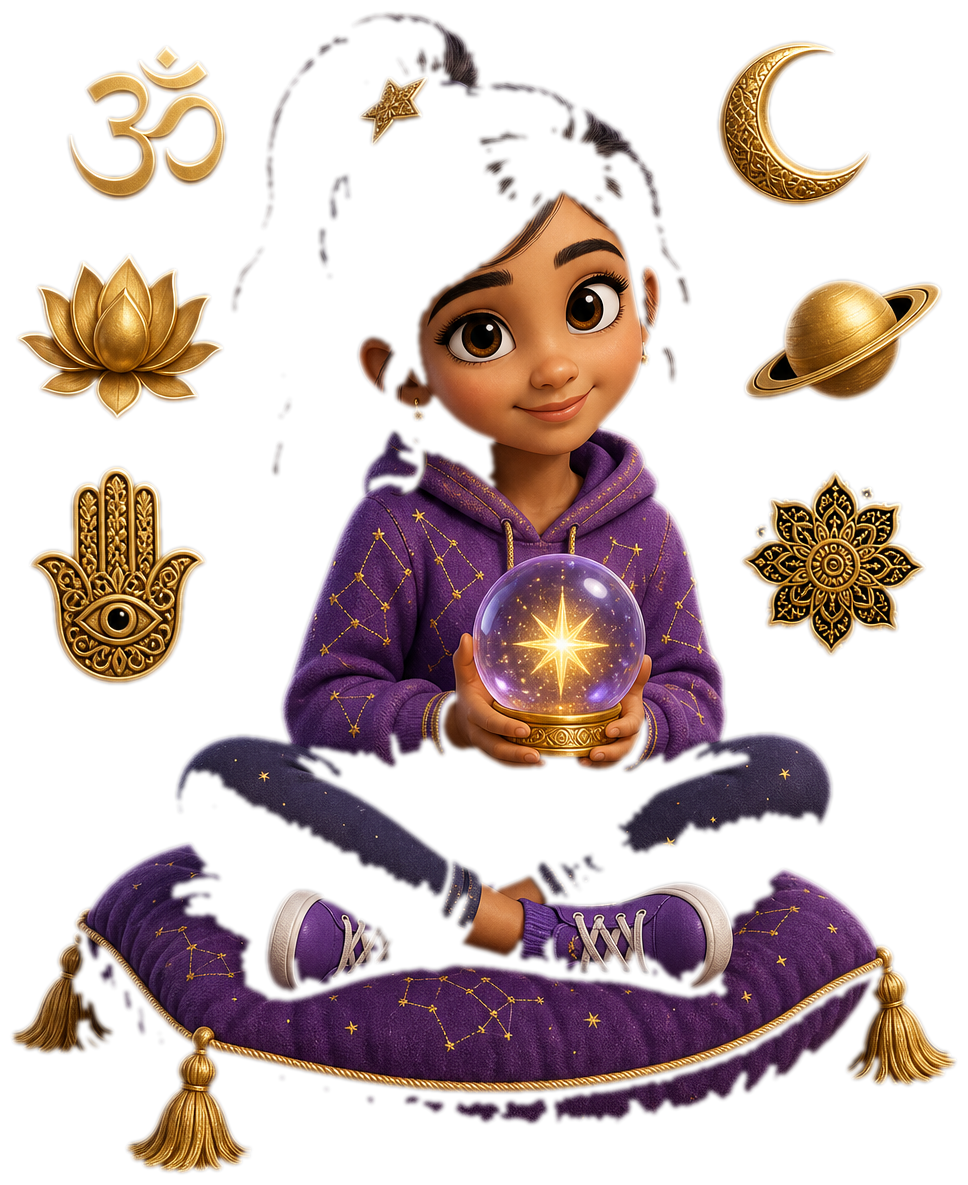
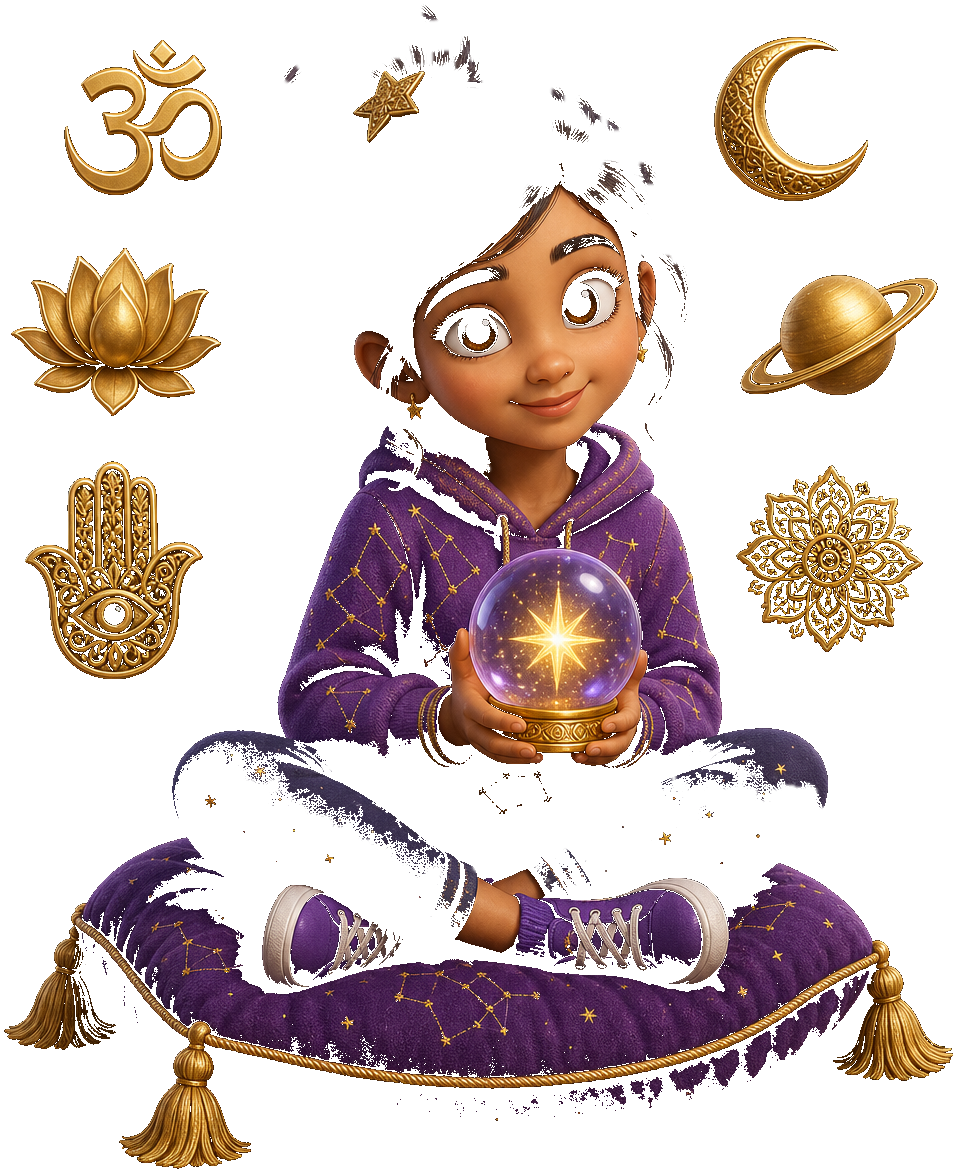
fix(amy-astro): remove dark plate behind hub tile hero
Retarget the Amy cutout alpha and tile glow so the expand art merges into the glass gradient instead of reading as a boxed image.

diff --git a/artifacts/kidschedule/src/lib/amy-astro-card-config.ts b/artifacts/kidschedule/src/lib/amy-astro-card-config.ts
@@ -2,14 +2,16 @@ import type { HubPremiumCardVisual } from "@/lib/hub-premium-card-types";
 import { Compass, Moon, Sparkles, Star } from "lucide-react";
 
 const BASE = "/illustrations/amy-astro";
+/** Cache-bust when cutout assets change so clients pick up transparent heroes. */
+const ASSET_V = "20260726c";
 
 /**
  * Collapsed Amy Astro Intelligence section — symbolic moon/star icon only
  * (matches Learning Zone / other hub section tiles; no character photo).
  */
 export const AMY_ASTRO_SECTION_HEADER_VISUAL: HubPremiumCardVisual = {
-  iconSrc: `${BASE}/section-header-icon.png`,
-  heroSrc: `${BASE}/section-header-hero.png`,
+  iconSrc: `${BASE}/section-header-icon.png?v=${ASSET_V}`,
+  heroSrc: `${BASE}/section-header-hero.png?v=${ASSET_V}`,
   surfaceGradient:
     "linear-gradient(135deg, rgba(30,64,175,0.6) 0%, rgba(79,70,229,0.54) 46%, rgba(245,158,11,0.4) 100%)",
   ambientGlow:
@@ -37,8 +39,8 @@ export const AMY_ASTRO_SECTION_HEADER_VISUAL: HubPremiumCardVisual = {
 
 /** Expanded launch tile — transparent cutout Amy so glass/glow shows through. */
 export const AMY_ASTRO_LAUNCH_VISUAL: HubPremiumCardVisual = {
-  iconSrc: `${BASE}/amy-astro-icon.png`,
-  heroSrc: `${BASE}/amy-astro-hero.png`,
+  iconSrc: `${BASE}/amy-astro-icon.png?v=${ASSET_V}`,
+  heroSrc: `${BASE}/amy-astro-hero.png?v=${ASSET_V}`,
   surfaceGradient:
     "linear-gradient(135deg, rgba(30,64,175,0.62) 0%, rgba(79,70,229,0.56) 46%, rgba(245,158,11,0.42) 100%)",
   ambientGlow:

diff --git a/artifacts/kidschedule/src/index.css b/artifacts/kidschedule/src/index.css
@@ -233,27 +233,32 @@
   pointer-events: none;
 }
 
-/* Amy Astro Intelligence — cutout hero merges into violet/gold tile glow */
+/* Amy Astro Intelligence — hero merges into tile (no black plate) */
+.amy-astro-launch-card .hub-feature-tile__media {
+  isolation: auto;
+  background: transparent;
+}
+
 .amy-astro-launch-card .hub-feature-tile__media-glow {
   background:
     radial-gradient(
-      circle at 78% 88%,
-      rgba(251, 191, 36, 0.22) 0%,
-      rgba(167, 139, 250, 0.16) 34%,
-      transparent 64%
+      circle at 72% 78%,
+      rgba(167, 139, 250, 0.34) 0%,
+      rgba(251, 191, 36, 0.16) 38%,
+      transparent 68%
     ),
     radial-gradient(
-      circle at 92% 30%,
-      rgba(129, 140, 248, 0.18) 0%,
+      circle at 90% 28%,
+      rgba(129, 140, 248, 0.22) 0%,
       transparent 55%
     );
 }
 
 .amy-astro-launch-card .hub-feature-tile__hero {
-  max-height: 148px;
-  height: 96%;
-  filter: drop-shadow(0 12px 22px rgba(67, 56, 202, 0.45))
-    drop-shadow(0 0 18px rgba(251, 191, 36, 0.22));
+  max-height: 152px;
+  height: 98%;
+  /* Soft violet shadow only — no rectangular plate shadow */
+  filter: drop-shadow(0 10px 16px rgba(76, 29, 149, 0.32));
 }
 
 .hub-feature-tile__chips {

diff --git a/artifacts/kidschedule/src/features/birth-sky/lib/branding.ts b/artifacts/kidschedule/src/features/birth-sky/lib/branding.ts
@@ -14,9 +14,10 @@ export const AMY_ASTRO_DISCLAIMER =
 /** Optional static SVG fallback — runtime UI uses inline AmyAstroEmblem. */
 export const AMY_ASTRO_ANIMATED_EMBLEM_SRC = "/amy-astro/amy-astro-animated.svg" as const;
 /** Hub + in-module Amy art — transparent cutout (matches Parent Hub tile hero). */
-export const AMY_ASTRO_TILE_HERO_SRC = "/illustrations/amy-astro/amy-astro-hero.png" as const;
+export const AMY_ASTRO_TILE_HERO_SRC =
+  "/illustrations/amy-astro/amy-astro-hero.png?v=20260726c" as const;
 /** Soft circular portrait derived from the same tile Amy art. */
 export const AMY_ASTRO_TILE_PORTRAIT_SRC =
-  "/illustrations/amy-astro/amy-astro-portrait.png" as const;
+  "/illustrations/amy-astro/amy-astro-portrait.png?v=20260726c" as const;
 /** @deprecated Prefer AMY_ASTRO_TILE_PORTRAIT_SRC — kept for older static fallbacks. */
 export const AMY_ASTRO_COSMIC_PORTRAIT_SRC = AMY_ASTRO_TILE_PORTRAIT_SRC;
